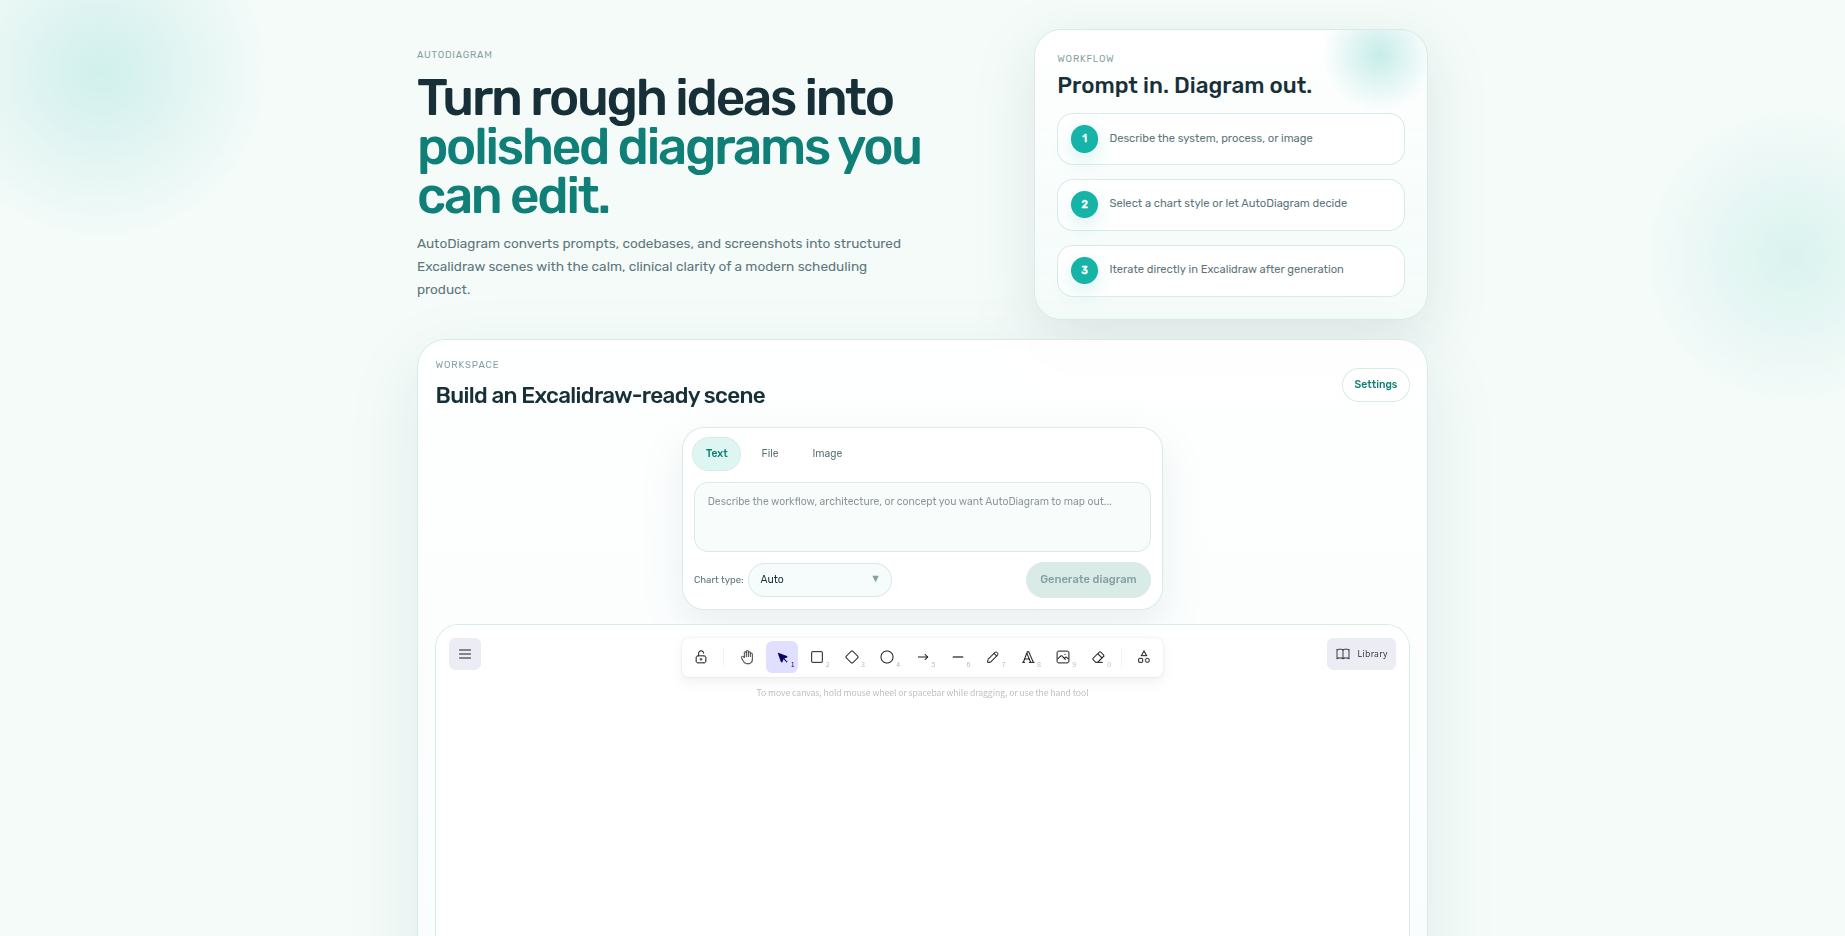
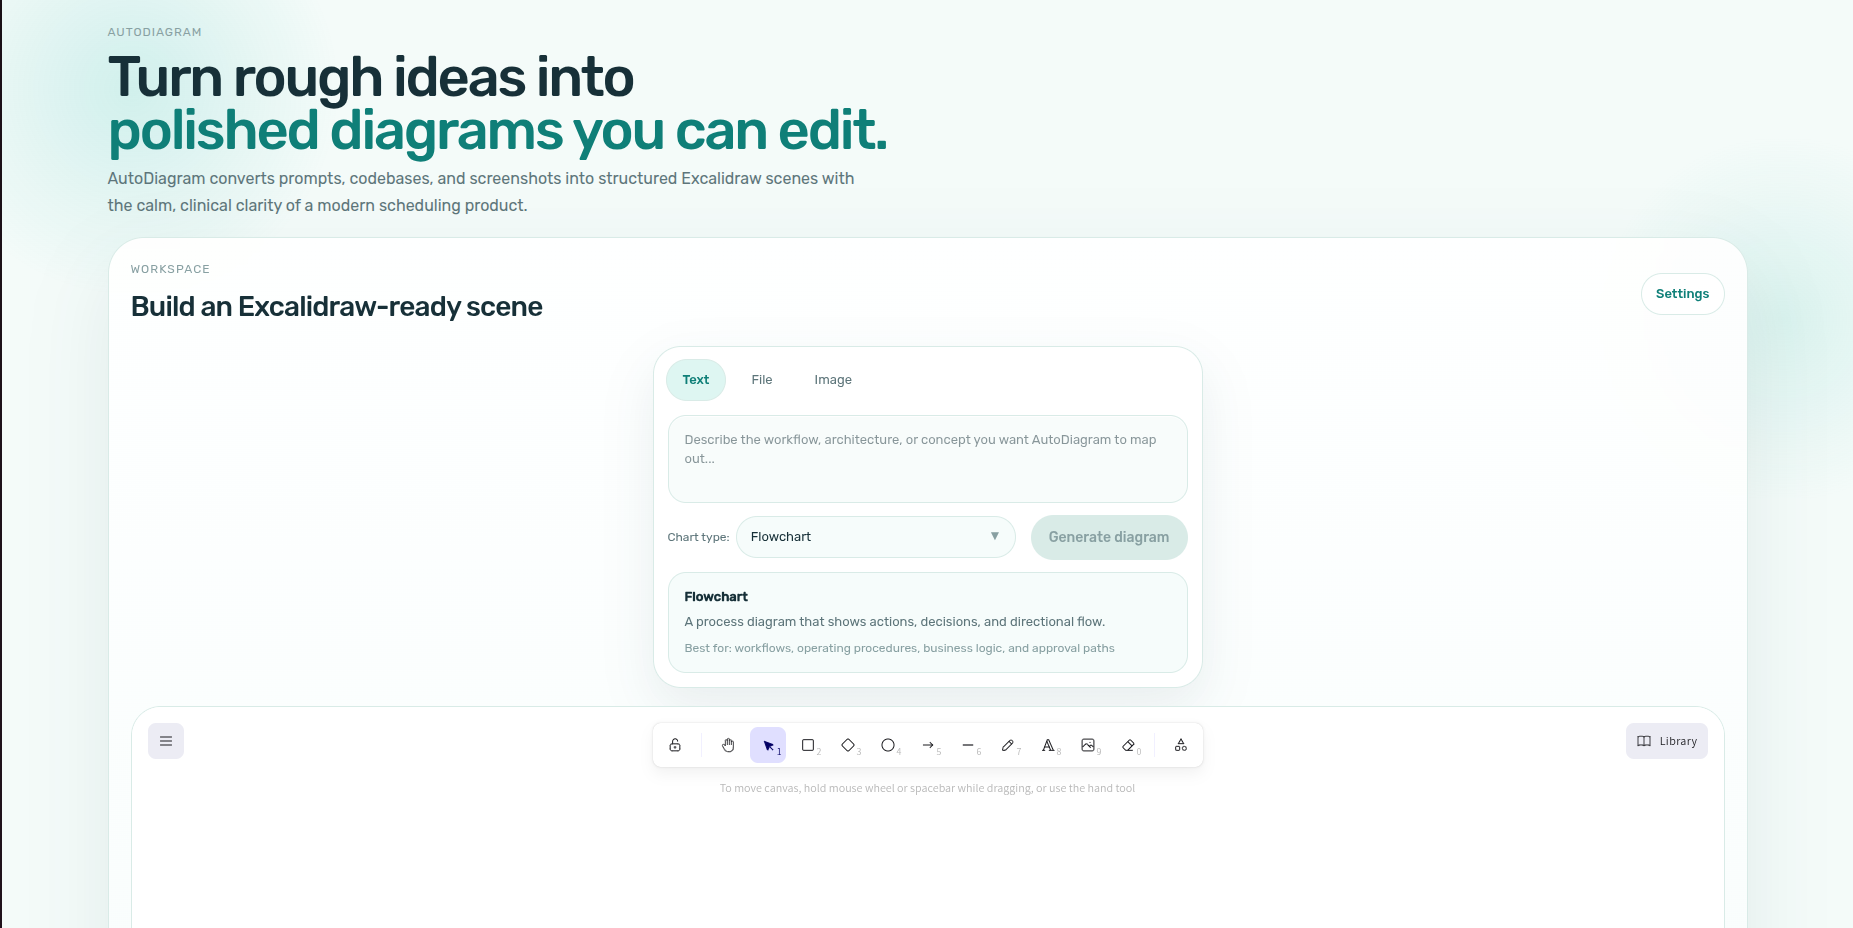
Update README main workspace screenshot

diff --git a/README.md b/README.md
@@ -8,6 +8,8 @@ It uses an OpenRouter-compatible chat model to generate diagram JSON, then rende
 
 ### Main Workspace
 
+Latest main workspace UI with the slimmer hero and diagram canvas directly below:
+
 ![AutoDiagram main workspace](images/main.png)
 
 ### Settings
